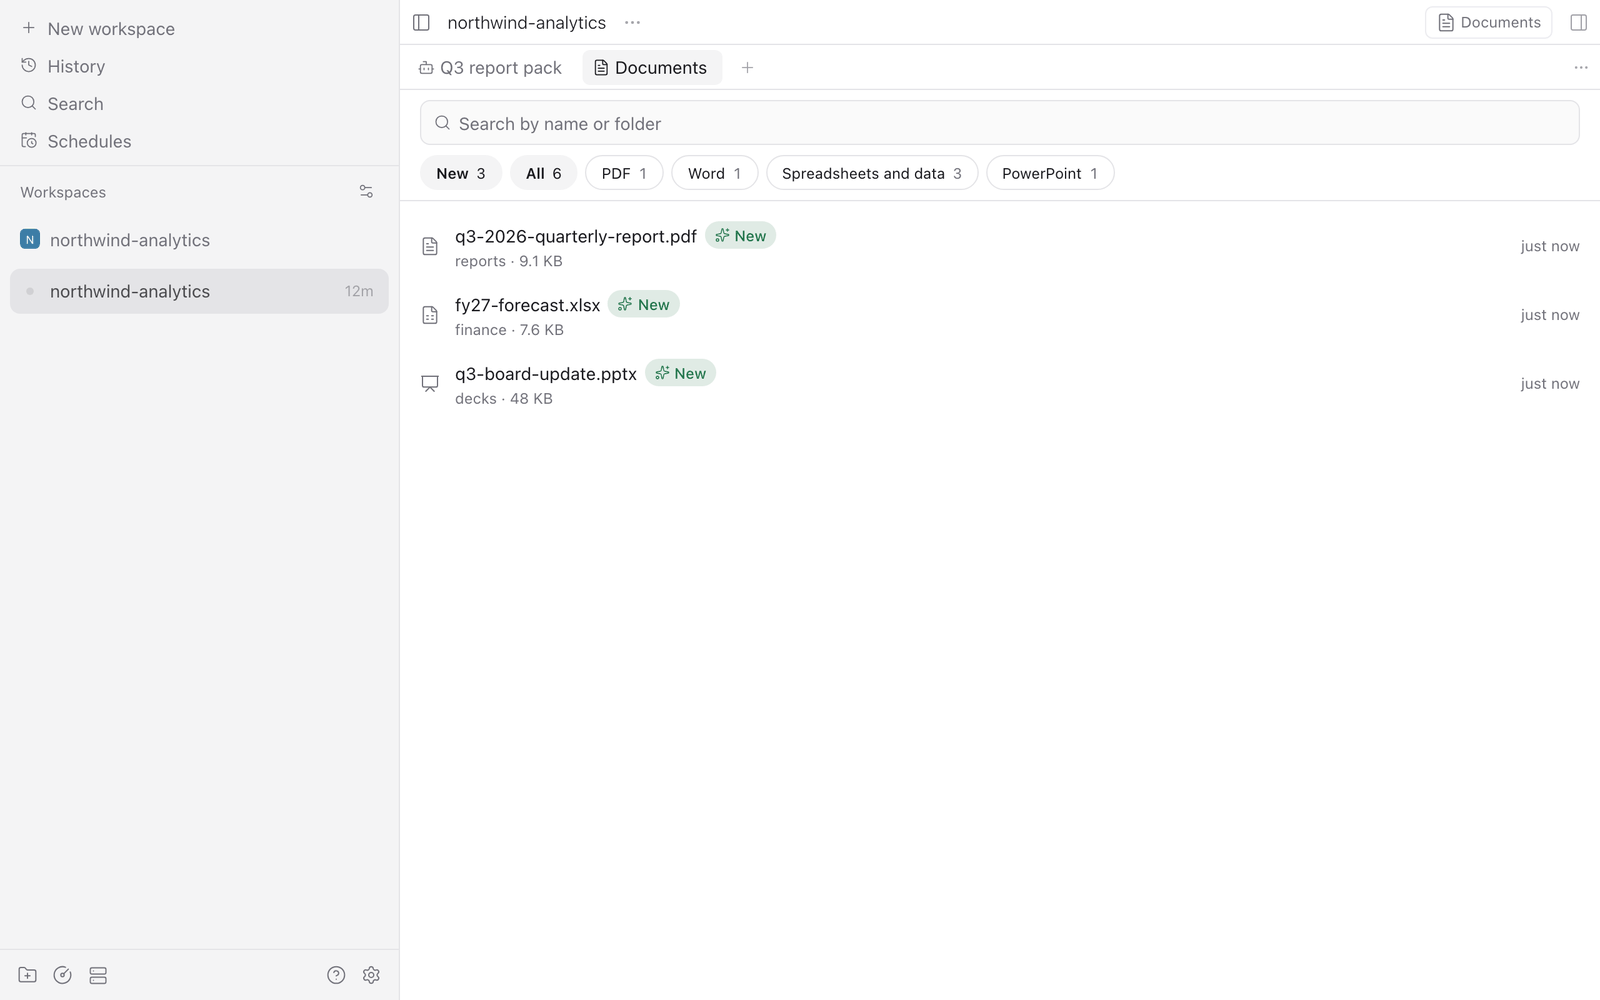
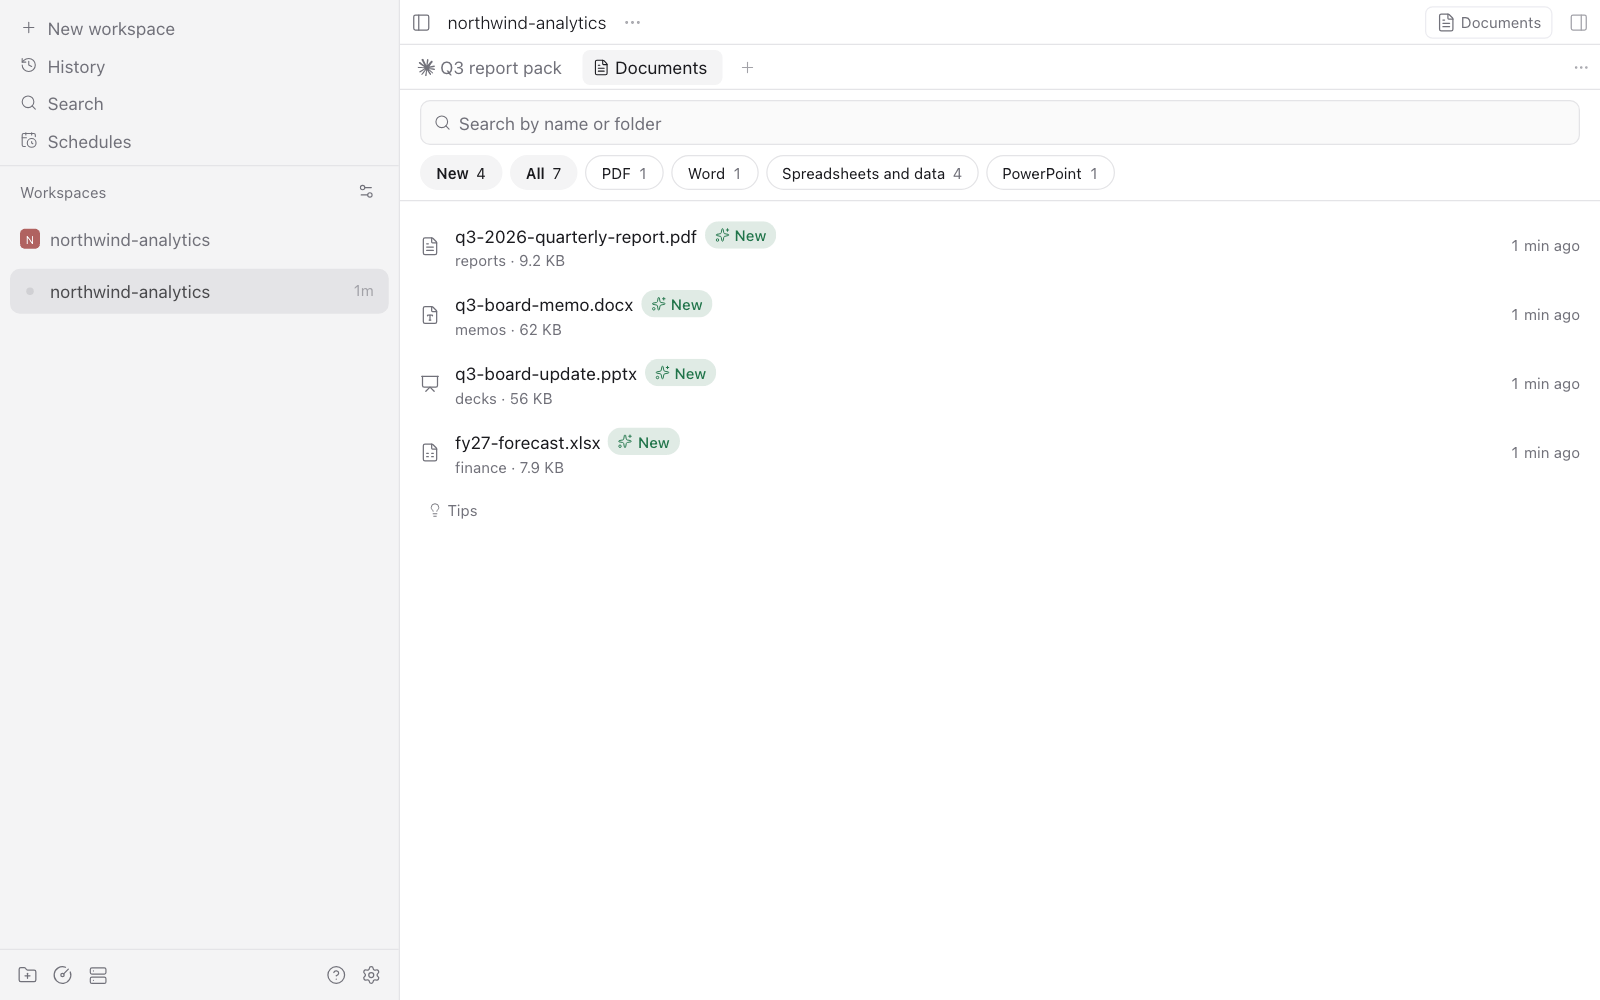
docs: reshoot listing images with a real Claude agent
The turn card, review and phone images showed the devkit fake agent
("Scripted" model chip, "fake-agent" provider). All five are retaken from
one Claude Sonnet turn on an isolated daemon. That turn changed four
documents, so the README alt text says four. Documents now shows the Tips
link that first-run tips added.

diff --git a/README.md b/README.md
@@ -1,6 +1,6 @@
 # PDF and Office viewer for Paseo
 
-![An agent turn in Paseo ends with a card listing the three documents it changed, each marked New or Changed with an Open button](assets/screenshot-turn-card.png)
+![An agent turn in Paseo ends with a card listing the four documents it changed, each marked New or Changed with an Open button](assets/screenshot-turn-card.png)
 
 A [Paseo](https://github.com/getpaseo/paseo) plugin that shows PDF, Word, Excel, CSV, JSON Lines, Parquet, PowerPoint, image, video and audio files from your workspace inside the app, on desktop, web and mobile. Documents are rendered on the daemon host with pure JavaScript and WebAssembly, so nothing needs to be installed there. When an agent turn ends, a card in the agent's timeline lists the documents changed while it ran, with Open buttons and a Settings link to turn the cards off. The Documents panel has a New filter for files added or changed since your last visit. [OVERVIEW.md](OVERVIEW.md) describes what users see and the limits.
 
